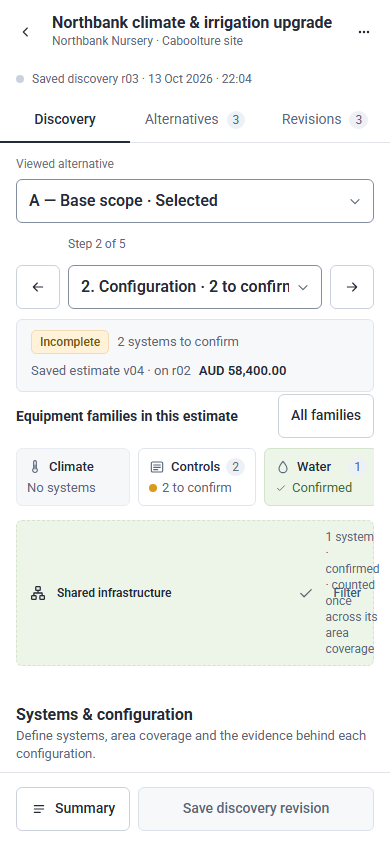
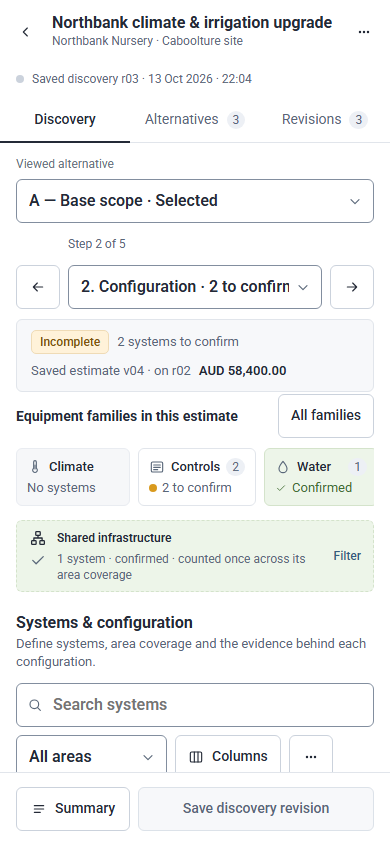
Verify Figma wizard on desktop and phone and record source evidence

diff --git a/tests/browser/estimating-discovery.spec.ts b/tests/browser/estimating-discovery.spec.ts
@@ -609,7 +609,7 @@ test("ES02-T41/T42/T58: draft survives step changes and identity loss clears pro
   // shared session in another tab; its BroadcastChannel must clear this draft
   // at 320 px without navigating or reloading the protected page.
   const account = await page.context().newPage();
-  await account.goto("/my-work");
+  await account.goto("/estimating/discovery");
   await identity(account, "systems");
   await account.close();
   await expect(

diff --git a/docs/testing/evidence/es02-figma/README.md b/docs/testing/evidence/es02-figma/README.md
@@ -21,3 +21,21 @@ Execution results are recorded below after the final source checks. Generated br
 The first focused run passed the real historical-catalogue save but found a test locator matching both hidden Requirements and visible Configuration family cards. The corrected assertion scopes to Configuration. A concurrent dev-server regeneration also left partial `.next/dev/types` output during TypeScript checking; final type/build verification is run after regeneration. Neither result is represented as a pass.
 
 Real-device and screen-reader acceptance, phone Alternatives/Revisions mockups, Q6 timing persistence and deployment remain open. The accepted design's synthetic prices and statuses are not production rules.
+
+## Integrated source and captured views
+
+The implementation commit `8071877` is integrated with main `65141dc` in `ce72790`. That main update contributes the separately authorised document backend and unchanged migration 0091; this UI contribution adds no migration. The isolated local database was advanced with the normal migration runner before final browser verification. Source files and capture hashes are recorded in `source-manifest.json`.
+
+Actual compiled-application captures with fallback icons: [desktop Configuration, 1440 × 1000](configuration-desktop.png), [phone Configuration, 390 × 844](configuration-phone.png) and [phone system editor, 390 × 844](system-phone.png). These show the saved r03 state and real r02 cost basis. They are execution evidence, not replacement Figma baselines or owner approval. Visual inspection also covered Requirements, Scope & delivery, Pricing and Review, 1024 px tablet, and 320 px phone. The narrowest page has no horizontal overflow and retains a 72 px footer.
+
+Earlier browser attempts exposed obsolete header/summary selectors and capitalisation in the retained tests. Tests now inspect the summary from Discovery and restore the prior tab. Identity loss at 320 px is driven by a real identity change in a second tab, exercising the existing BroadcastChannel lock without navigating/reloading the protected draft. The first second-tab route was unavailable to that role and was corrected to the permitted Discovery register. One test/capture attempt ran before the rebuilt local server was listening and received connection refused; the verified run starts after the compiled server reports readiness. The phone Infrastructure wrapping found during visual inspection was fixed before these final captures.
+
+Final checks: compiled build (including TypeScript), changed-source ESLint, design register assurance and 22 focused discovery/configuration unit tests pass. The complete compiled browser and final documentation results are recorded in the closing verification entry below. Full-repository lint and standalone TypeScript also passed earlier in this session. No hosted deployment or business transaction was performed.
+
+## Closing verification
+
+On the integrated source above, all **19 applicable compiled Chrome browser cases pass** across desktop and phone; five pre-existing desktop-only cases remain intentionally skipped in the mobile project. The desktop source helper also exercises 1920/1440/1280 px and both rail modes, while the existing journey captures 1024/768/390/320 px. No failing browser assertion remains.
+
+The local Playwright wrapper changes only the origin to port 3016, omits the warm-up dependency for the already-running compiled server, uses a 120-second outer timeout and 20-second assertion wait, and redirects output to ignored local artifacts. Existing explicit test/action deadlines and all business assertions are retained. This is functional/geometry evidence, not a performance acceptance result.
+
+The final integrated compiled build, TypeScript validation, changed-source ESLint, `npm run studio:check`, foundation assurance and naming assurance pass. The 22 focused discovery/configuration units pass. The register retains 334 unreviewed and 28 stale page reviews; all 46 component reviews remain pending. These statuses are preserved deliberately. GitHub CI, merge, hosted deployment and owner/device acceptance are not claimed by the local results.
